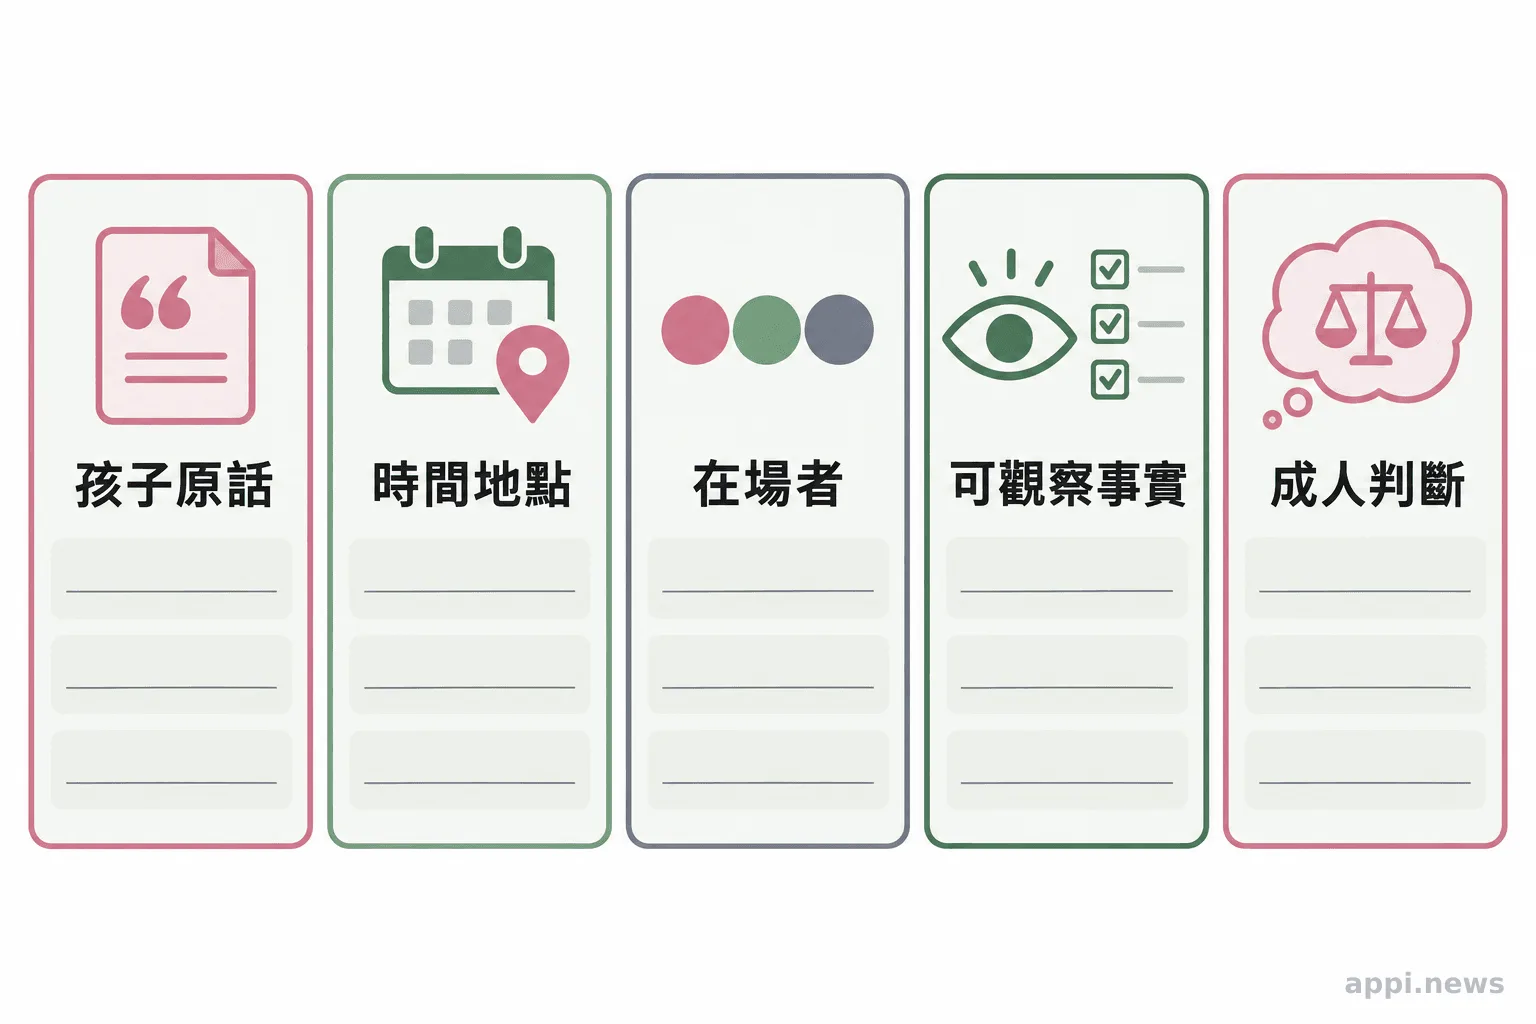
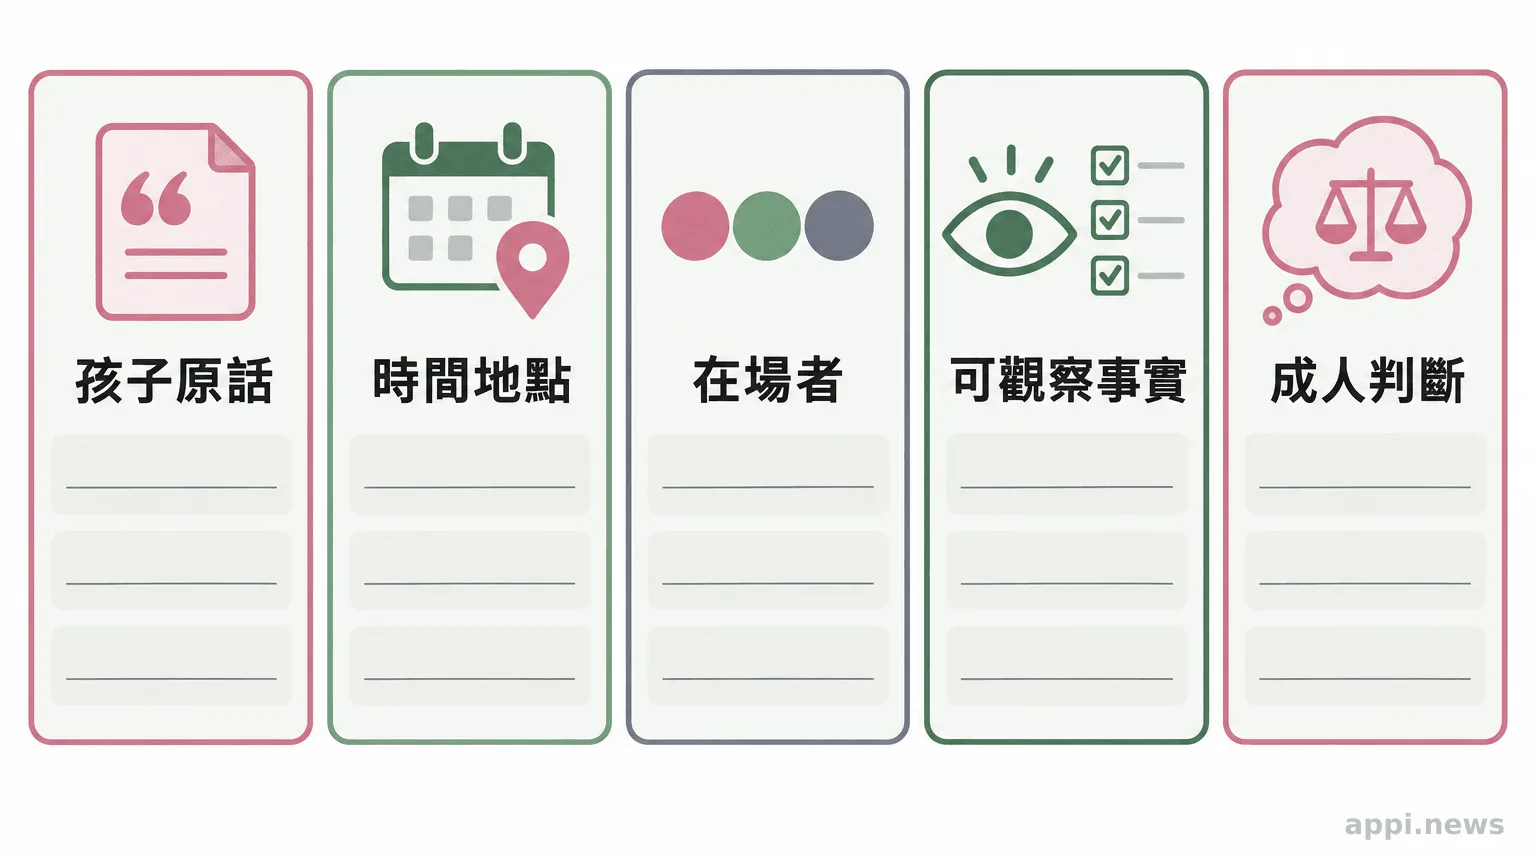
更新微光專欄：孩子說出受傷經驗時，大人如何陪伴與求助？

diff --git a/news.html b/news.html
@@ -62,6 +62,14 @@
     <div class="wrap">
       <div class="news-cards">
         <article class="news-card reveal">
+          <div class="thumb" style="background-image:url('assets/news/news-2026-10-child-disclosure-support-steps-1.webp')" role="presentation"></div>
+          <div class="body">
+            <div class="meta"><span class="cat">微光專欄</span><time datetime="2026-10-06">2026.10.06</time></div>
+            <h3><a href="news-2026-10-child-disclosure-support-steps.html">孩子說出受傷經驗時，大人如何陪伴與求助？</a></h3>
+            <p class="excerpt">孩子說出疑似受虐或不當對待時，先聽、確認安全、避免追問；家長、老師與志工可記錄原話，依情況聯繫113，立即危險時撥110。</p>
+          </div>
+        </article>
+        <article class="news-card reveal">
           <div class="thumb" style="background-image:url('assets/news/news-2026-10-support-children-after-adversity-1.webp')" role="presentation"></div>
           <div class="body">
             <div class="meta"><span class="cat">微光專欄</span><time datetime="2026-10-06">2026.10.06</time></div>
@@ -99,14 +107,6 @@
             <div class="meta"><span class="cat">微光專欄</span><time datetime="2026-10-06">2026.10.06</time></div>
             <h3><a href="news-2026-10-child-safety-observation-support.html">孩子的改變，值得大人多看一眼：兒少保護與通報指南</a></h3>
             <p class="excerpt">孩子的傷勢、情緒或學習變化都有不同成因。認識兒少保護的觀察原則、客觀記錄方式，以及113諮詢通報與110緊急求助的分工。</p>
-          </div>
-        </article>
-        <article class="news-card reveal">
-          <div class="thumb" style="background-image:url('assets/news/news-2026-10-child-disclosure-support-steps-1.webp')" role="presentation"></div>
-          <div class="body">
-            <div class="meta"><span class="cat">微光專欄</span><time datetime="2026-10-06">2026.10.06</time></div>
-            <h3><a href="news-2026-10-child-disclosure-support-steps.html">孩子說出受傷經驗時，大人如何陪伴與求助？</a></h3>
-            <p class="excerpt">孩子說出疑似受虐或不當對待時，先聽、確認安全、避免追問；家長、老師與志工可記錄原話，依情況聯繫113，立即危險時撥110。</p>
           </div>
         </article>
         <article class="news-card reveal">

diff --git a/index.html b/index.html
@@ -253,6 +253,14 @@
       </div>
       <div class="news-cards">
         <article class="news-card reveal">
+          <div class="thumb" style="background-image:url('assets/news/news-2026-10-child-disclosure-support-steps-1.webp')" role="presentation"></div>
+          <div class="body">
+            <div class="meta"><span class="cat">微光專欄</span><time datetime="2026-10-06">2026.10.06</time></div>
+            <h3><a href="news-2026-10-child-disclosure-support-steps.html">孩子說出受傷經驗時，大人如何陪伴與求助？</a></h3>
+            <p class="excerpt">孩子說出疑似受虐或不當對待時，先聽、確認安全、避免追問；家長、老師與志工可記錄原話，依情況聯繫113，立即危險時撥110。</p>
+          </div>
+        </article>
+        <article class="news-card reveal">
           <div class="thumb" style="background-image:url('assets/news/news-2026-10-support-children-after-adversity-1.webp')" role="presentation"></div>
           <div class="body">
             <div class="meta"><span class="cat">微光專欄</span><time datetime="2026-10-06">2026.10.06</time></div>
@@ -266,14 +274,6 @@
             <div class="meta"><span class="cat">微光專欄</span><time datetime="2026-10-06">2026.10.06</time></div>
             <h3><a href="news-2026-10-child-injury-medical-support.html">孩子就醫被問受傷經過？認識兒虐辨識與醫療求助</a></h3>
             <p class="excerpt">孩子受傷就醫時，急診與兒科如何評估？從驗傷紀錄、兒少保護醫療中心到113通報，整理家長能理解的醫療與社政分工。</p>
-          </div>
-        </article>
-        <article class="news-card reveal">
-          <div class="thumb" style="background-image:url('assets/news/news-2026-10-teacher-child-protection-steps-1.webp')" role="presentation"></div>
-          <div class="body">
-            <div class="meta"><span class="cat">微光專欄</span><time datetime="2026-10-06">2026.10.06</time></div>
-            <h3><a href="news-2026-10-teacher-child-protection-steps.html">老師遇到兒少保護疑慮，先做這 3 件事</a></h3>
-            <p class="excerpt">老師發現孩子疑似受傷或聽見求助時，先記錄可觀察事實、依兒少權法第53條通報，再由主管機關評估。整理24小時責任通報、校安通報與校內分工。</p>
           </div>
         </article>
       </div>
